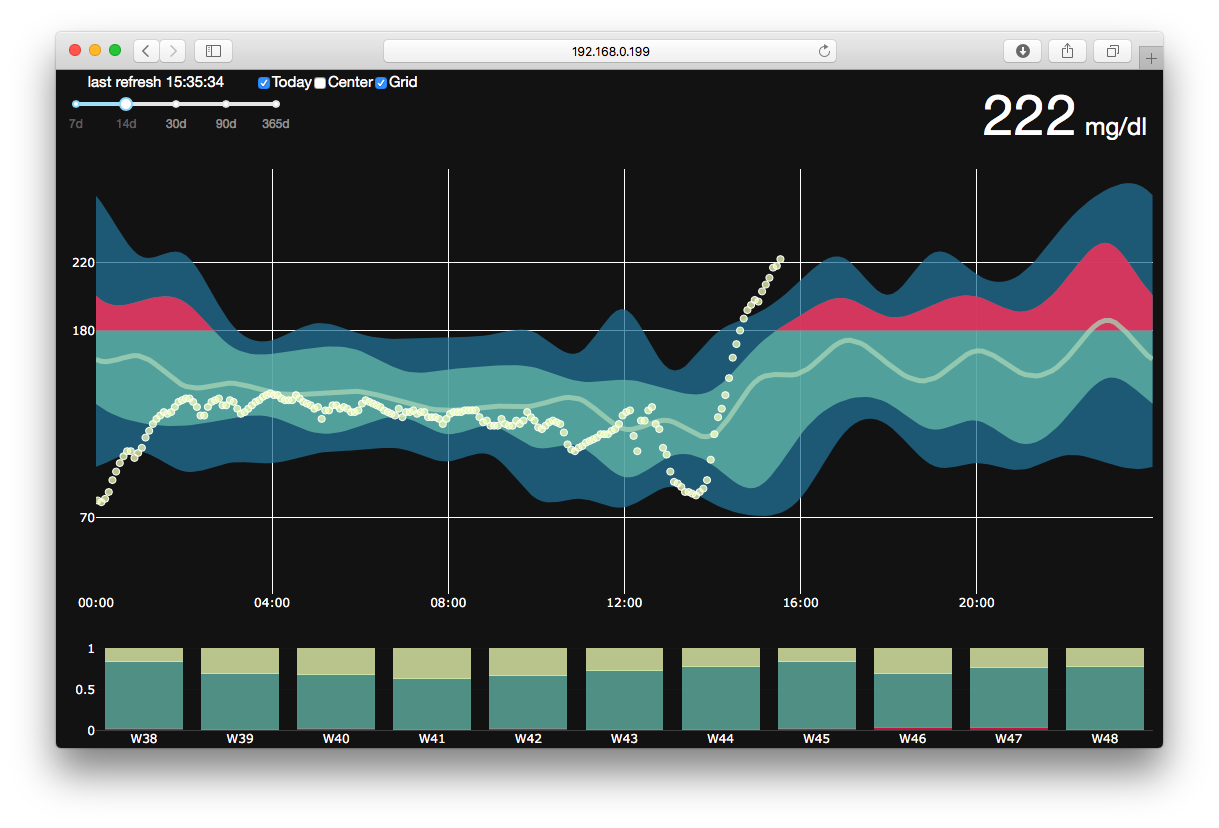
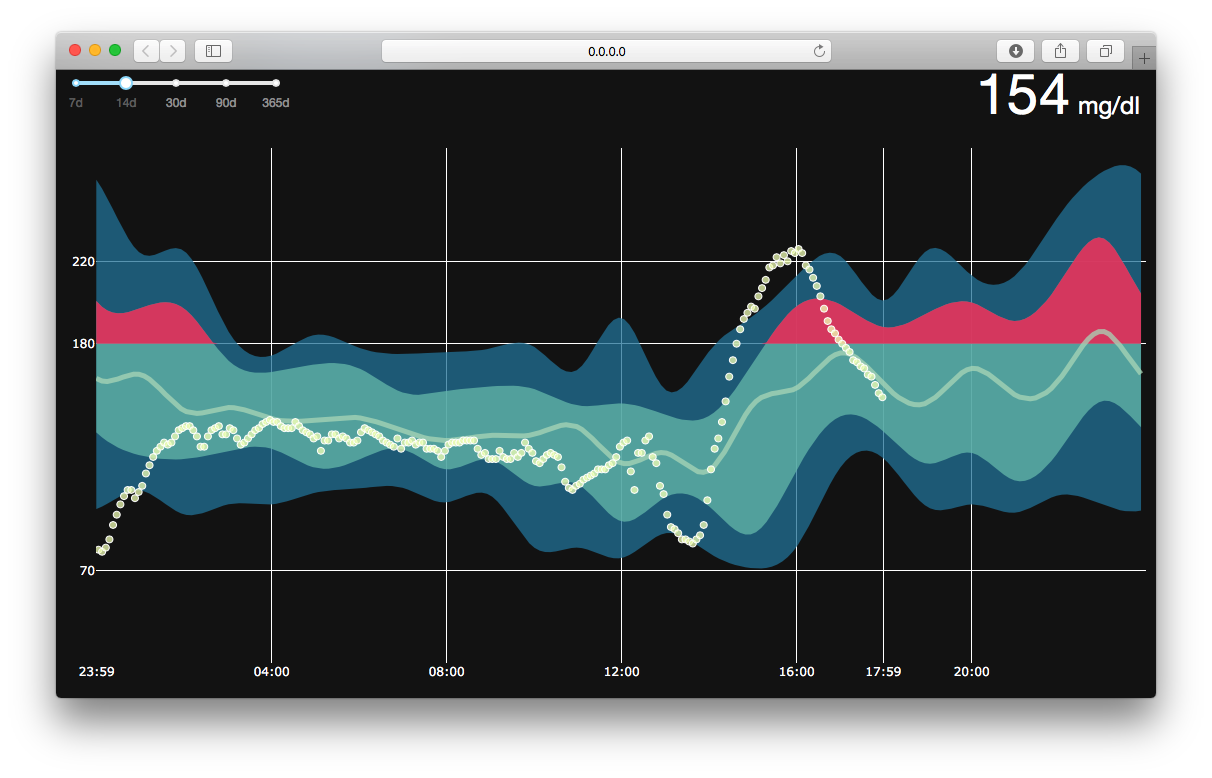
Make percentile plot full screen

diff --git a/app.py b/app.py
@@ -224,7 +224,7 @@ app.layout = html.Div(style={"height": "100vh", "width": "100vw", 'backgroundCol
         ]),
         html.Div(className="six columns", id="title")
     ]),
-    html.Div(children=[blank_graph(id='top_graph', height="70vh")]),
+    html.Div(children=[blank_graph(id='top_graph', height="90vh")]),
 
     html.Div(
         style={"height": "20vh"},

diff --git a/README.md b/README.md
@@ -8,9 +8,9 @@ Plotly Dash based dashboard overlaying your CGM data on your CGM percentile plot
 
 Still, many CGM users benefit from looking at their report, especially the Ambulatory Glucose Profile helps to quickly see at which time of the day your therapy needs attention.
 
-cgm-dashboard was developed to make seeing your data **simple and fun**. Instead of limiting yourself to today's data or the AGP in your report, it *combines* them both. It literally brings your glucose data in perspective. 
+cgm-dashboard was developed to make seeing your data **simple and fun**. Instead of limiting yourself to today's data or the AGP in your report, it *combines* them both. It brings your glucose data into perspective. On top of that, you can quickly take a glance on how you perform without downloading the report from your device manufacturer or opening an app. 
 
-cgm-dashboard overlays your today's cgm data with your historic percentile plot. This allows you to quickly foresee if you enter a problematic time of the day. You can think of it as using the percentile plot as a forecast based on your history.
+cgm-dashboard overlays your today's cgm data with your historic percentile plot. This allows you to quickly foresee if you enter a problematic time of the day. You can think of it as using the percentile plot as a forecast, based on your history.
 
 ## how to use it
 The webbased dashboard can be accessed from any browser making it the perfect candidate for a left-over tablet. Just put it where you see it, anywhere in your home. 
